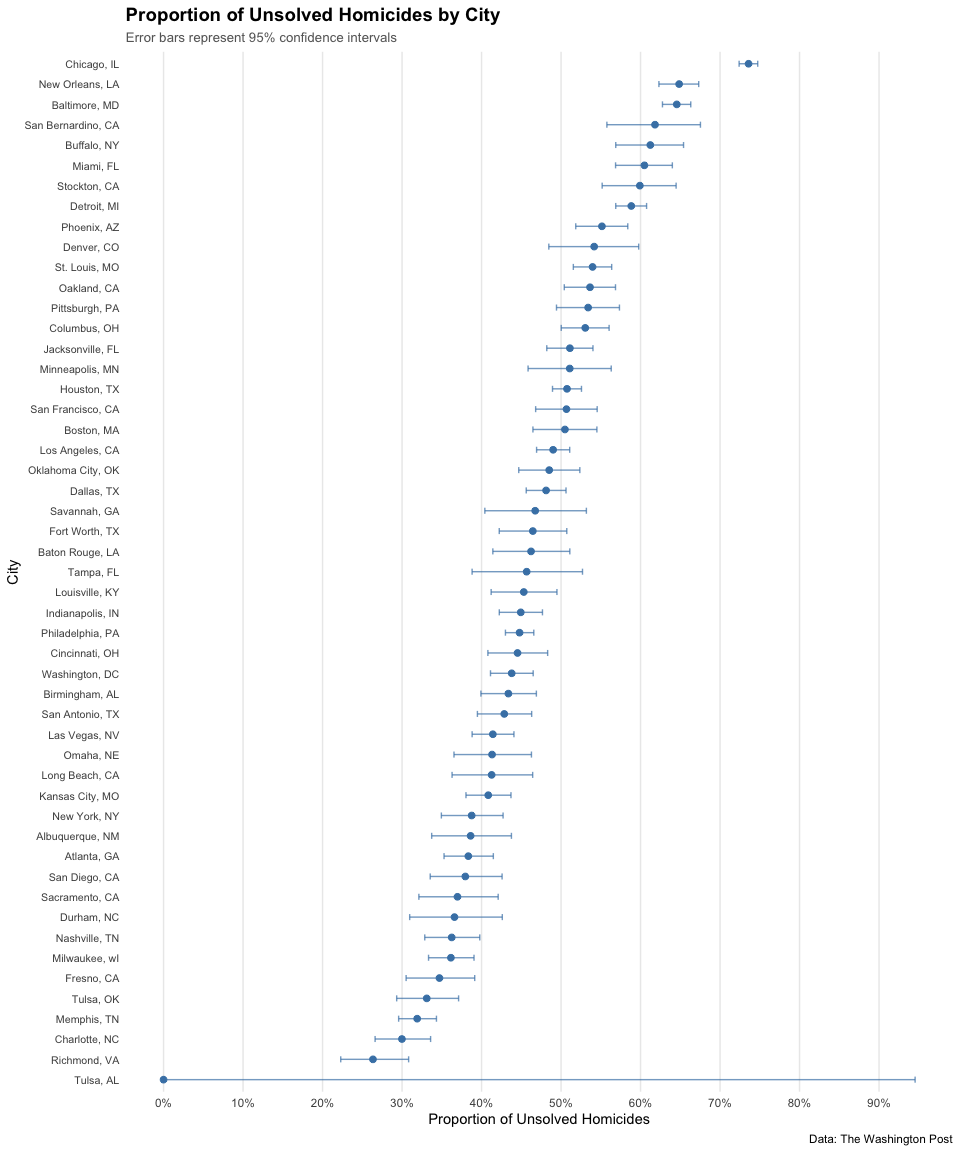
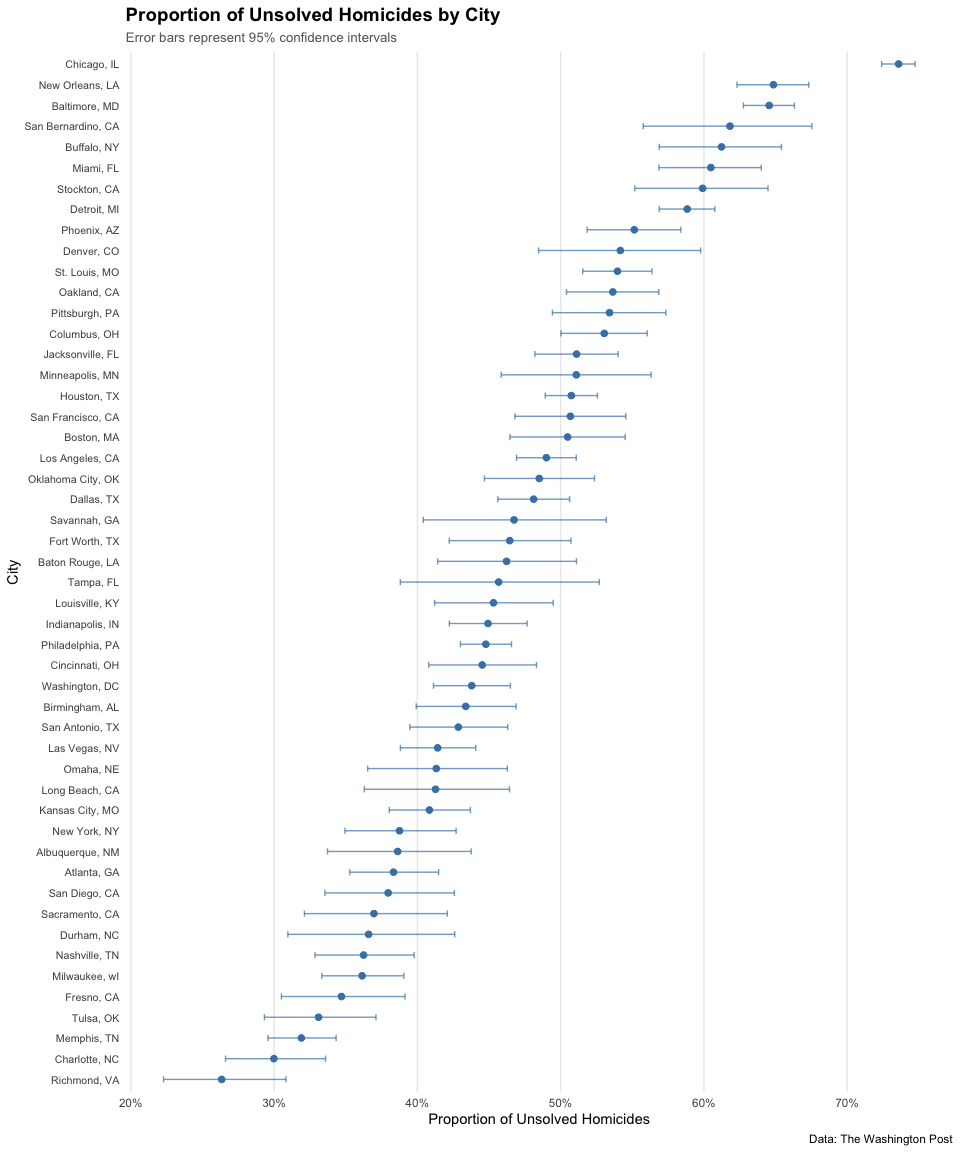
Ignore cities with too few homicide cases

diff --git a/p8105_hw5_yl6107.md b/p8105_hw5_yl6107.md
@@ -5,13 +5,11 @@ Oct 30, 2025
 
 - [Problem 1: Birthday Paradox
   Simulation](#problem-1-birthday-paradox-simulation)
-  - [Function to simulate birthdays](#function-to-simulate-birthdays)
   - [Run simulations](#run-simulations)
   - [Visualization](#visualization)
   - [Comments](#comments)
 - [Problem 2: Power Analysis
   Simulation](#problem-2-power-analysis-simulation)
-  - [Simulation function](#simulation-function)
   - [Run simulations for different sample mean $\mu$
     values](#run-simulations-for-different-sample-mean-mu-values)
   - [Power analysis](#power-analysis)
@@ -34,7 +32,7 @@ Oct 30, 2025
 
 ## Problem 1: Birthday Paradox Simulation
 
-### Function to simulate birthdays
+### Run simulations
 
 Create a function that randomly assigns birthdays to n people and checks
 for duplicates:
@@ -50,8 +48,6 @@ birthday_simulation = function(n) {
   return(has_duplicate)
 }
 ```
-
-### Run simulations
 
 Run the function 10,000 times for each group size from 2 to 50:
 
@@ -151,7 +147,7 @@ phenomenon. Key findings from the simulation:
 
 ## Problem 2: Power Analysis Simulation
 
-### Simulation function
+### Run simulations for different sample mean $\mu$ values
 
 Create a function to simulate datasets and perform t-tests:
 
@@ -173,9 +169,7 @@ sim_t_test = function(n = 30, mu = 0, sigma = 5) {
 }
 ```
 
-### Run simulations for different sample mean $\mu$ values
-
-Repeat for $\mu$ in {0, 1, 2, 3, 4, 5, 6}:
+Repeat for $\mu$ in {0, 1, 2, …, 6}:
 
 ``` r
 # Run 5000 simulations for each $\mu$ value
@@ -502,18 +496,15 @@ Run `prop.test` for each city using a tidy pipeline:
 ``` r
 # Run prop.test for all cities
 city_prop_tests = homicide_summary %>%
+  # the CI makes no sense if n is too small
+  filter(total_homicides >= 5) %>%
   mutate(
     prop_test_result = purrr::map2(unsolved_homicides, total_homicides,
-                                   ~prop.test(x = .x, n = .y) %>% broom::tidy())
+                                   ~prop.test(x = .x, n = .y, correct = TRUE) %>% broom::tidy())
   ) %>%
   unnest(prop_test_result) %>%
   select(city_state, estimate, conf.low, conf.high)
 ```
-
-    ## Warning: There was 1 warning in `mutate()`.
-    ## ℹ In argument: `prop_test_result = purrr::map2(...)`.
-    ## Caused by warning in `prop.test()`:
-    ## ! Chi-squared approximation may be incorrect
 
 Create a plot showing estimates and confidence intervals for each city:
 
